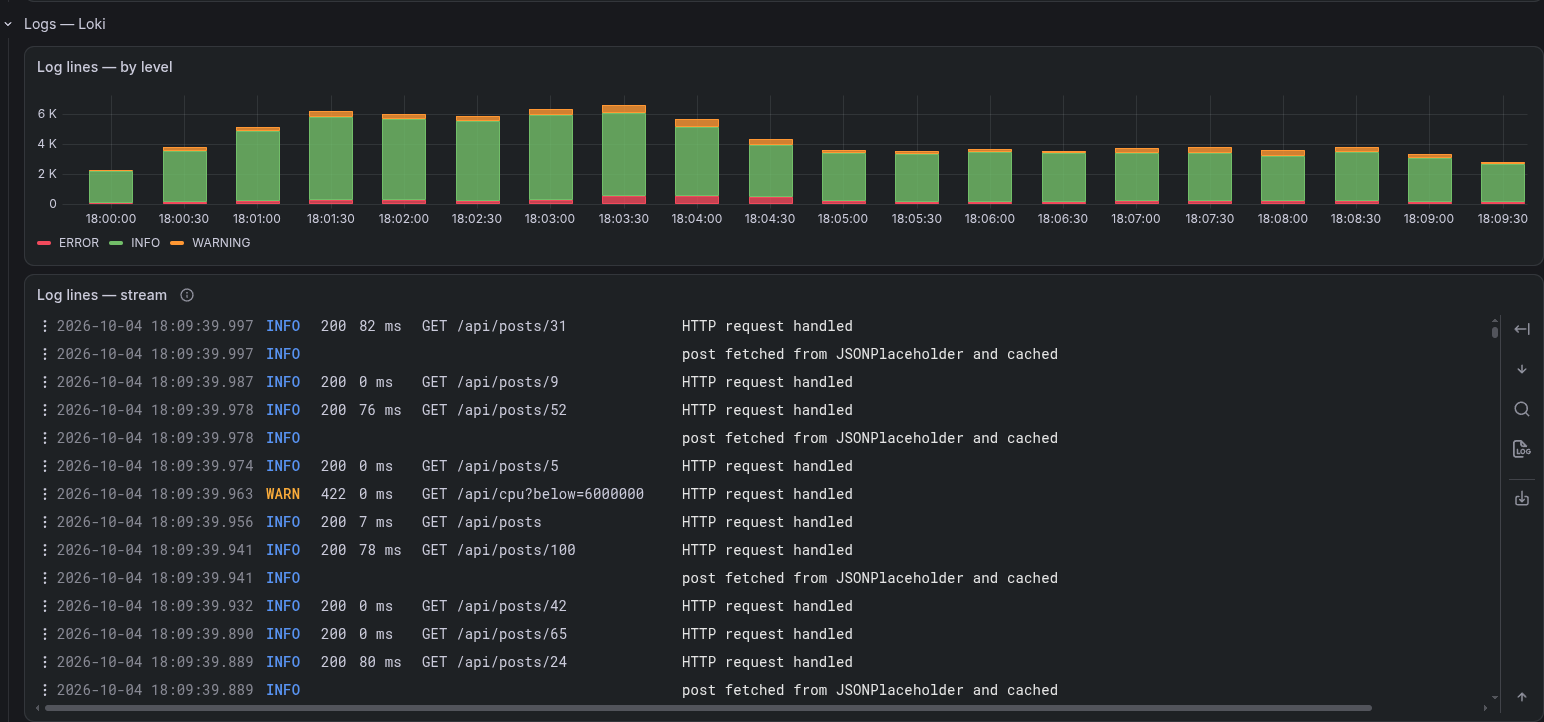
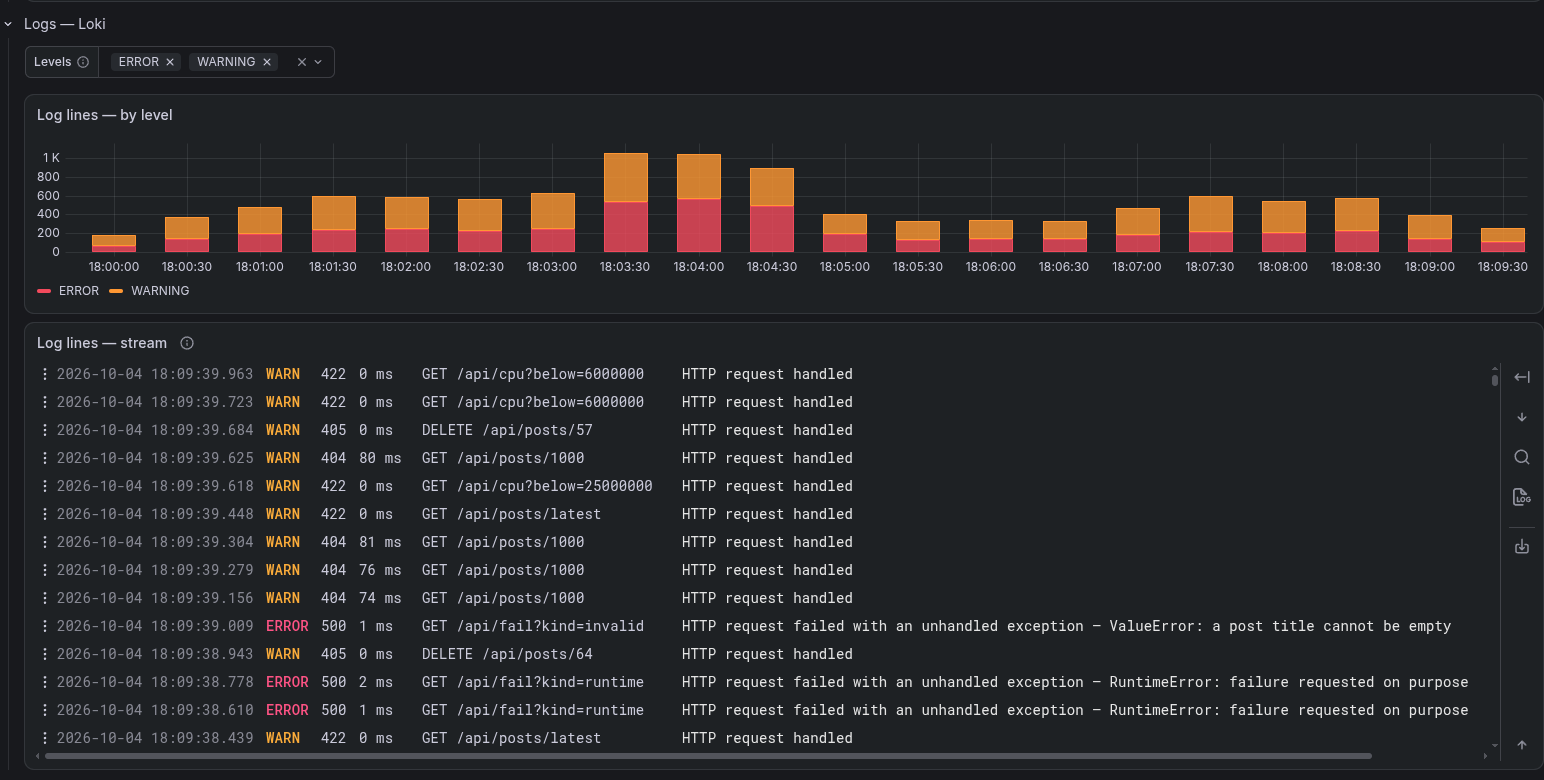
feat(dashboard): the log levels picked
A Levels picker in the Logs row — DEBUG to CRITICAL, all at first — filters the lines by level and the stream.

diff --git a/README.md b/README.md
@@ -132,6 +132,7 @@ narrows the whole dashboard to itself, as Grafana's own operations tables do.
 | the Workers row | Percentiles — the same, for the workers' latency |
 | the Profiling row | Profile type |
 | the Traces row | Show — slow or failed at first, slow, failed or all |
+| the Logs row | Levels — DEBUG, INFO, WARNING, ERROR, CRITICAL, all at first |
 
 A row's picker reshapes its panel and nothing else: every status class at once, every percentile
 of the service and of each route.
